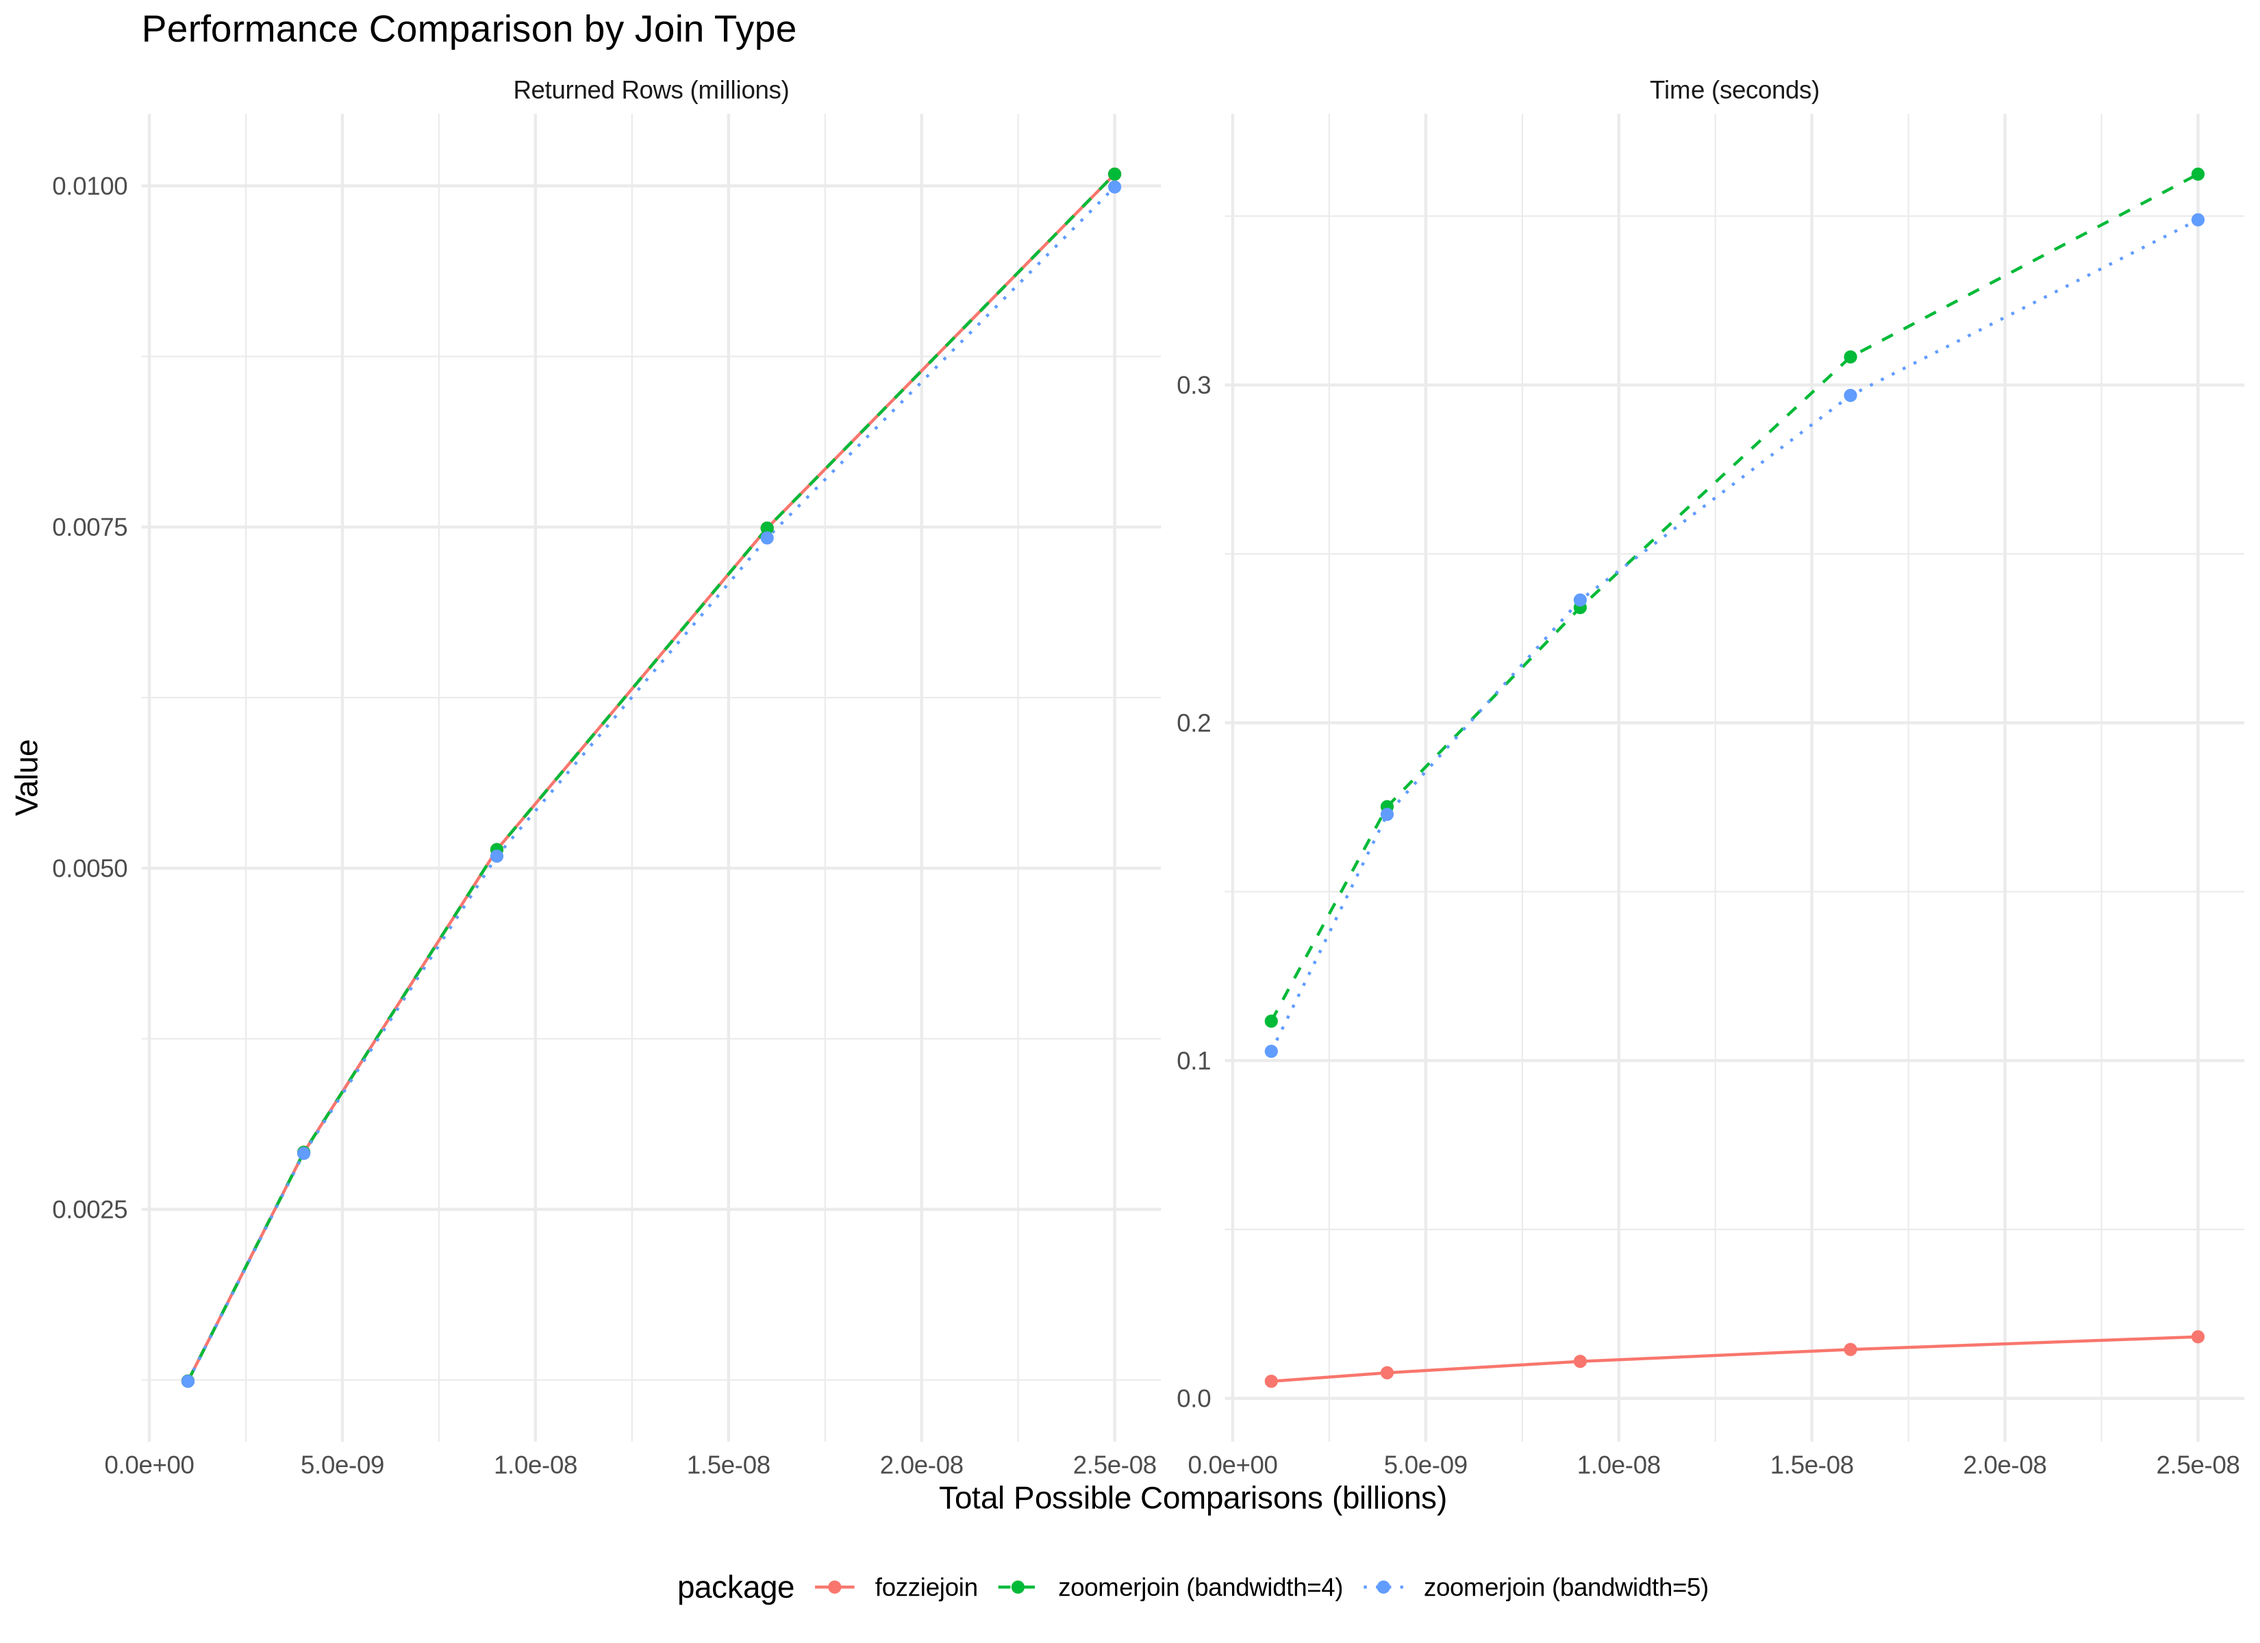
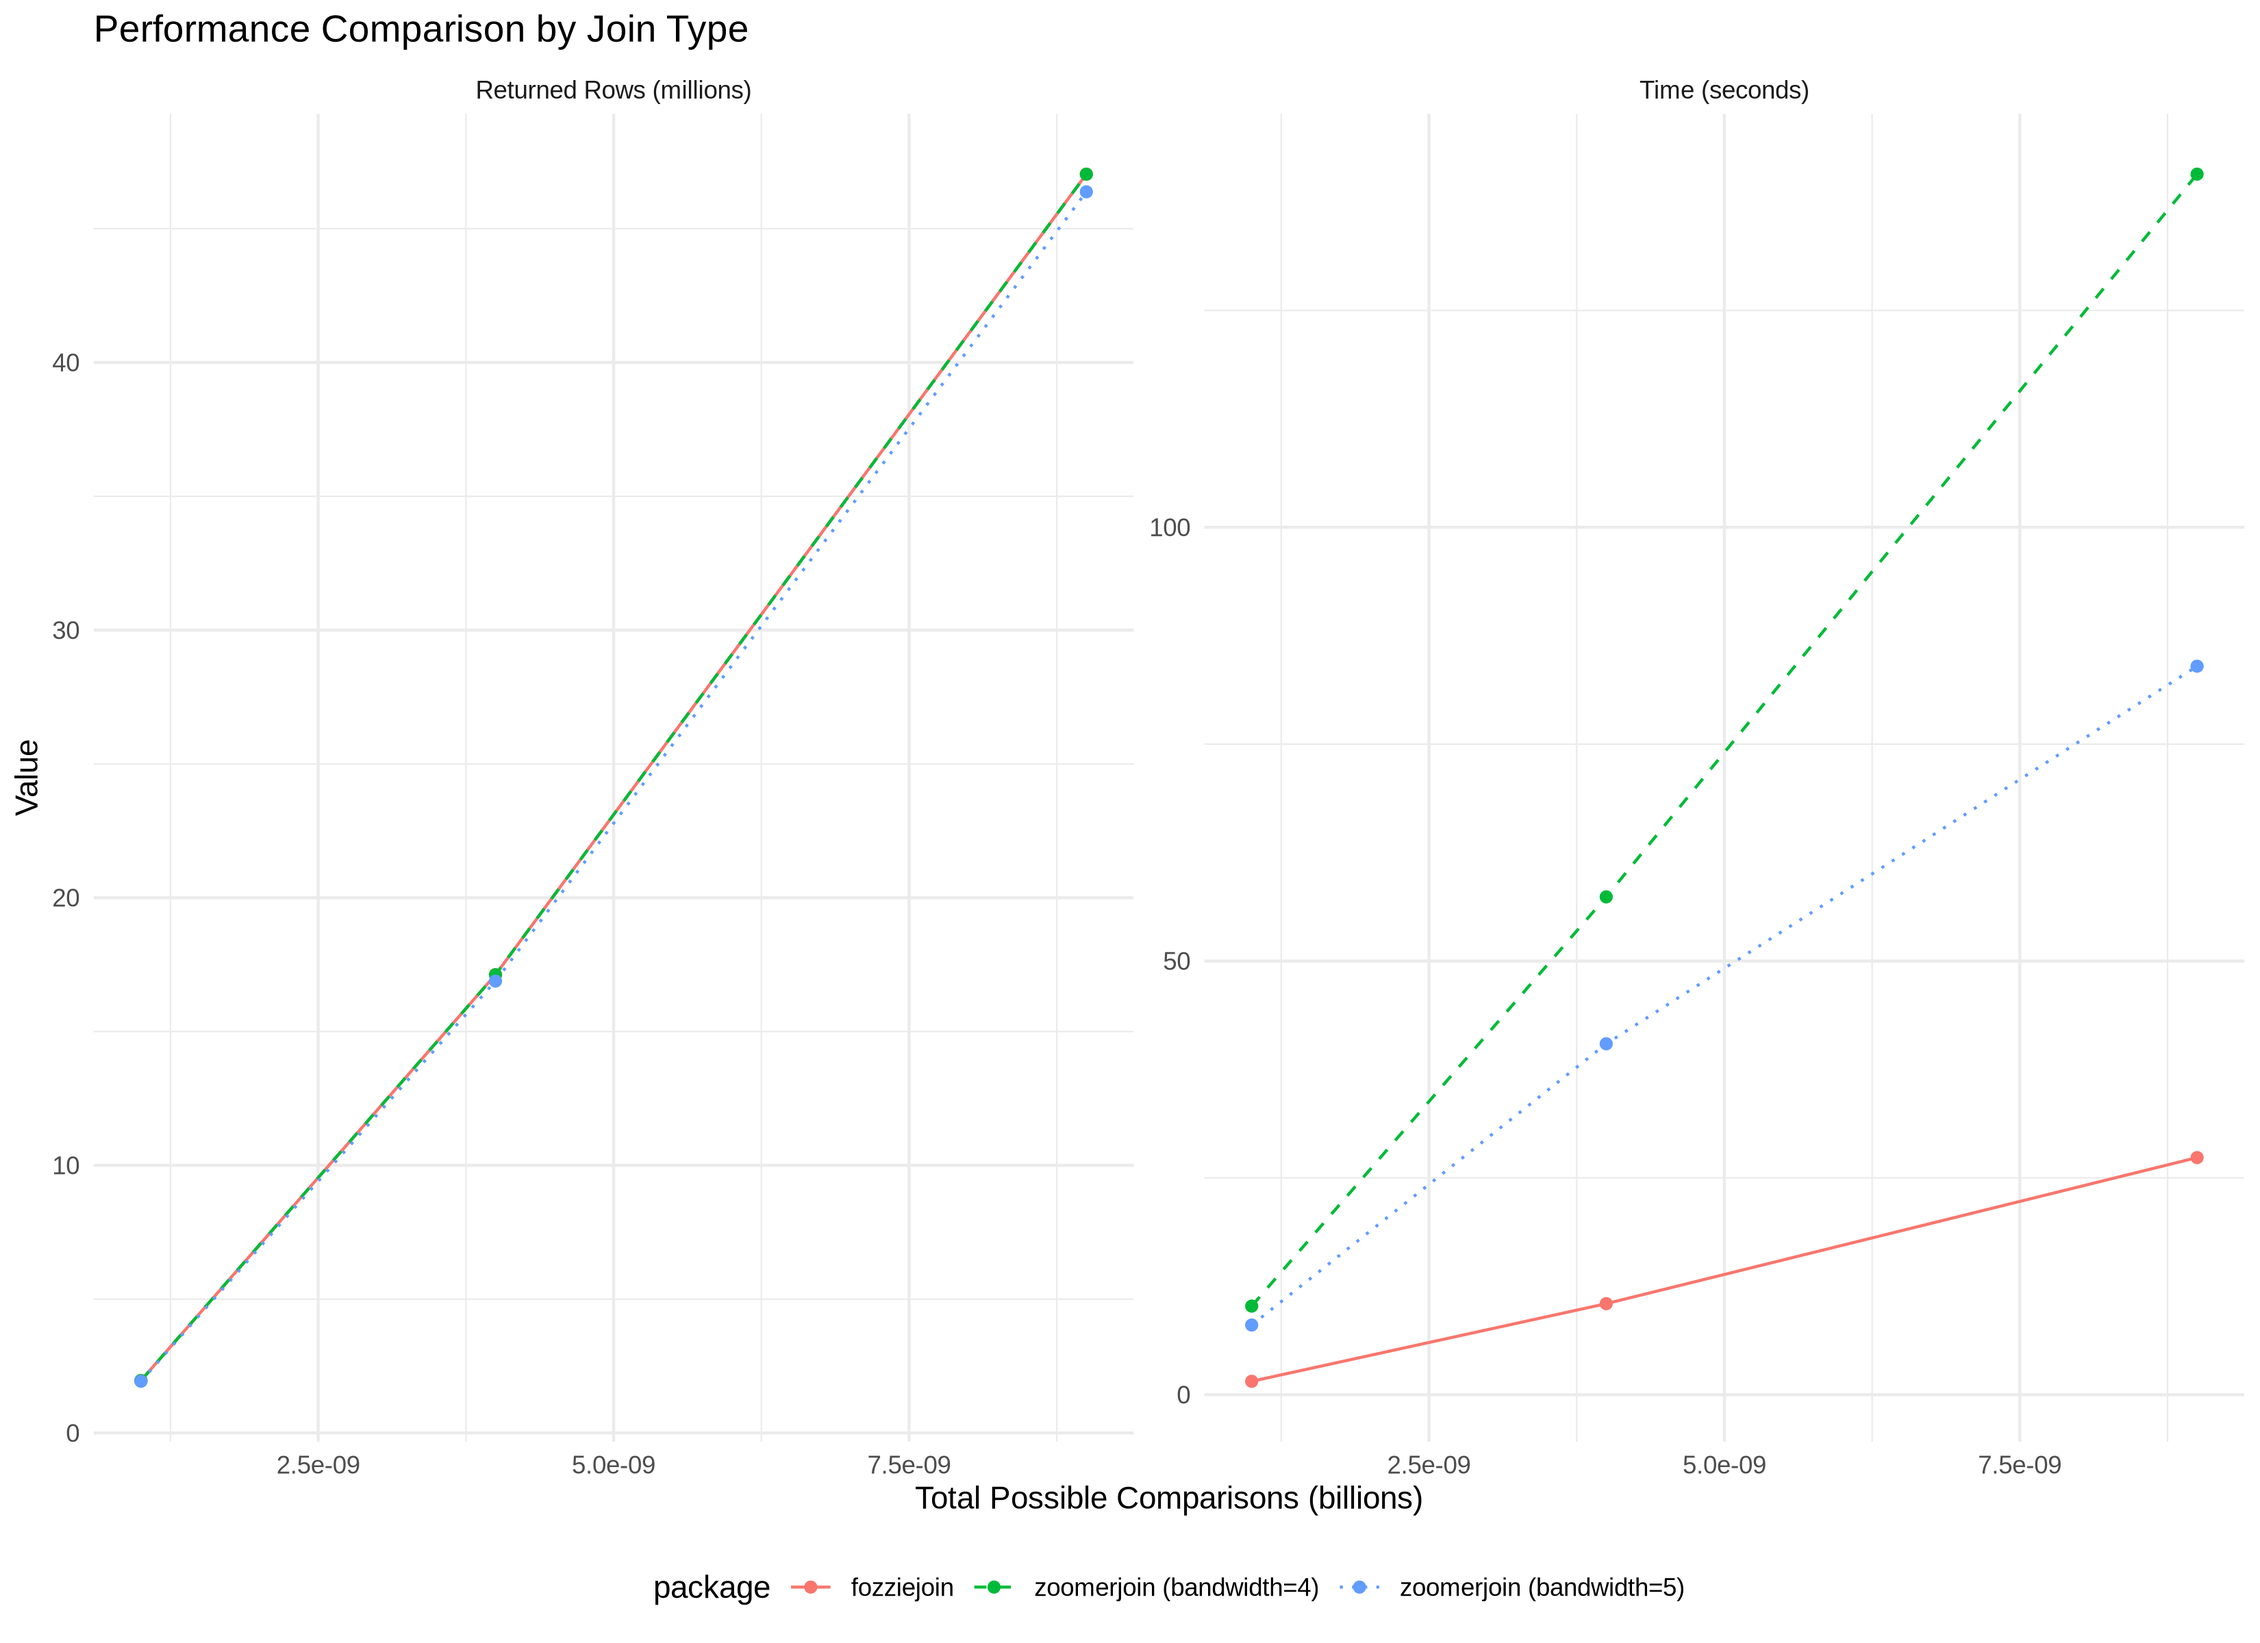
Pushing some early memory profiling results

diff --git a/README.md b/README.md
@@ -1,13 +1,41 @@
 # Zoomerjoin and Fuzzyjoin: Performance Tradeoffs
 
+## Introduction
+
 A repo with code examples for some comparative benchmarking between `zoomerjoin`
-and `fozziejoin`. Goal is to identify use cases for each.
+and `fozziejoin`. The primary goals of this repo are two:
+
+- Perform a comparative benchmark between the two packages
+- Identify areas where each package excels and struggles
+- Identify any hotspots in the `zoomerjoin` and `fozziejoin` packages
+
+The benchmark tests were designed around the motivating examples used in the
+`zoomerjoin` documentation.
+
+As with any benchmarking activity, details matter and skepticism is warranted.
+This activity has already led to significant performance improvements in the
+`fozziejoin` package.
+
+This repo is still a work in progress. A wish list is below.
+
+- [ ] Add euclidean benchmarks
+- [ ] Better parameterization config for `zoomerjoin`: it'd be nice to have a more fleshed out grid search strategy
+
+## Who I am
+
+I am the original author of the `fozziejoin` package, and have made minor
+contributions to the `zoomerjoin` package.
 
 ## Getting Started
 
-### Installing R Dependencies
+### Requirements
 
-Requires a functioning Rust toolchain and R version 4.5.
+- A modern version of R (4.5 or greater)
+- The `renv` package
+- Bash with the `pidstat` command
+- Cargo/Rust for compiling Rust packages from source
+
+### Installing R Dependencies
 
 First, clone the repo and make it the working directory:
 
@@ -31,13 +59,41 @@ CRAN is not used for this package.
 
 https://data.stanford.edu/dime
 
-Place in root folder of project.
+Place in [./data subdirectory](./data/).
 
-### Run Benchmark Script
+### Update Config File
+
+The [config.yaml](./config.yaml) file specifies all parameters for the
+scripts. This allows you to specify the sample size for benchmarks, parameters
+for the join operations, the number of system threads to use, and the number
+of runs to do in the benchmarking script.
+
+### Run All Scripts
+
+The [run_all.sh](./run_all.sh) script runs all benchmark scripts.
 
 ```sh
-Rscript compare_large.R
+# chmod +x run_all.sh
+./run_all.sh
 ```
+
+This script first runs a single `fozziejoin` join and `zoomerjoin` join at the
+max sample size from the config file. For `zoomerjoin`, it defaults to the max
+value of the `BANDWIDTHS` parameter for the single join run. The memory
+utilization is also monitored by second using the `pidstat` shell command.
+The respective reports are saved at `results/fozzie_memory.txt` and
+`results/zoomer_memory.txt`. The raw outputs are excluded from `git` version
+control to prevent unnecessary disclosure of user environment data.
+
+Next, it generates a plot of the memory utilization for each process and
+stores those results at `./results/memory_plot.png`.
+
+Third, it runs a more comprehensive benchmark for `fozziejoin` and
+`zoomerjoin`. For `fozziejoin`, a benchmark is run for each sample size
+using parameters from [./config.yaml](./config.yaml). `zoomerjoin`
+does this as well, except it will run at all possible parameterizations
+from the config file. For example, if `BANDWIDTHS: [4, 5]`, it will run
+benchmarks first with `BANDWIDTH=4`, then with `BANDWIDTH=5`.
 
 ## Findings
 
@@ -49,28 +105,30 @@ hardware.
 In initial testing, `zoomerjoin` was faster for jaccard distances at sufficient
 scale (joining two dfs with 100,000 rows). Based on these results, I revisited
 the implementation for Jaccard string joins in `fozziejoin` and discovered a
-more efficient strategy.
+more efficient strategy. The benchmarks were then updated (see below).
 
-![Benchmark plot for Jaccard String Join](./benchmark_plot_nband_350.png)
+![Benchmark plot for Jaccard String Join](./results/benchmark_plot_nband_350.png)
 
-#### New Fozziejoin Jaccard Join Strategy
+Next, I wanted to explore a timeline of total memory consumption across both
+packages for the Jaccard case. For this, I used `pidstat` to track total
+memory consumption over time for a single run of each join. Samples were taken
+once per second. I'm using Resident Set Size (RSS) as the metric here.
 
-##### Create Nested HashMap Structure for Right-Hand Side
+![./results/memory_plot.png](./results/memory_plot.png)
 
-For each item in the right-hand side of the join, we first generate a HashSet
-of unique q-grams in the item. Then we sort right-hand values into a HashMap
-whose keys are the size of the HashSet and whose values are a reverse q-gram
-index.
+Interestingly, `zoomerjoin` has a large spike in memory towards the end of its
+runtime. I made a lightly modified version of the `zoomerjoin` package that
+appends timestamps to jaccard joins when `progress = TRUE` and I added similar
+statements to the R code. You can see the modified `zoomerjoin`
+[here](https://github.com/JonDDowns/zoomerjoin/tree/timeprint). This allows
+us to better pinpoint exactly when this spike occurs. It appears the spike
+occurs for this section of code from the Rust function.
 
-##### Search Nested HashMap for All Values in Left-Hand Side
+```rust
+Robj::try_from(&out_arr).into()
+```
 
-For each item in the left-hand side of the join, we generate a HashSet of
-q-grams and record its length. Then, we use the length of this set and
-the `max_distance` parameter to determine the maximum and minimum lengths
-of q-grams in the right-hand side that could potentially match the current
-value. Next, we search the nested HashMap to identify any the indices of
-any values from the right-hand side that could potentially match the current
-query. We construct the Jaccard distance from the size of left-hand q-gram,
-the size of the right-hand q-gram, and the number of matches between the
-two q-grams. This value is compared to the `max_distance` threshold, and values
-at or below this threshold are kept.
+At this point in the Rust script, the Jaccard join has completed and linked
+pairs have been identified. This code converts the matched indices to an R
+object, where the join is finalized using `dplyr::bind_cols()`. This step takes
+around 18 seconds to run at `n=500,000`. Peak RSS occurs during this step.
